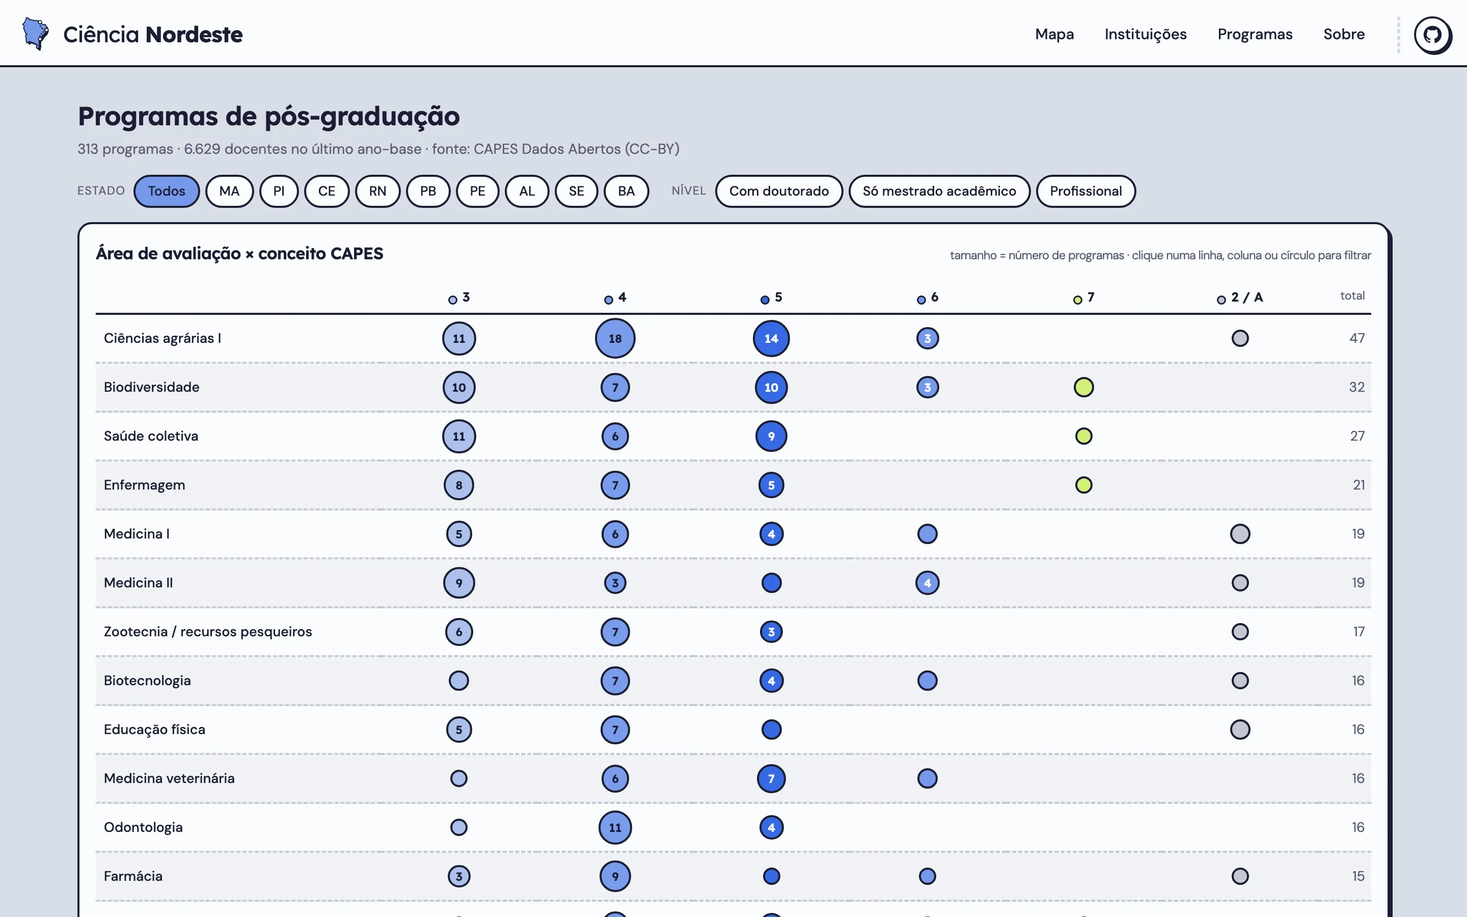
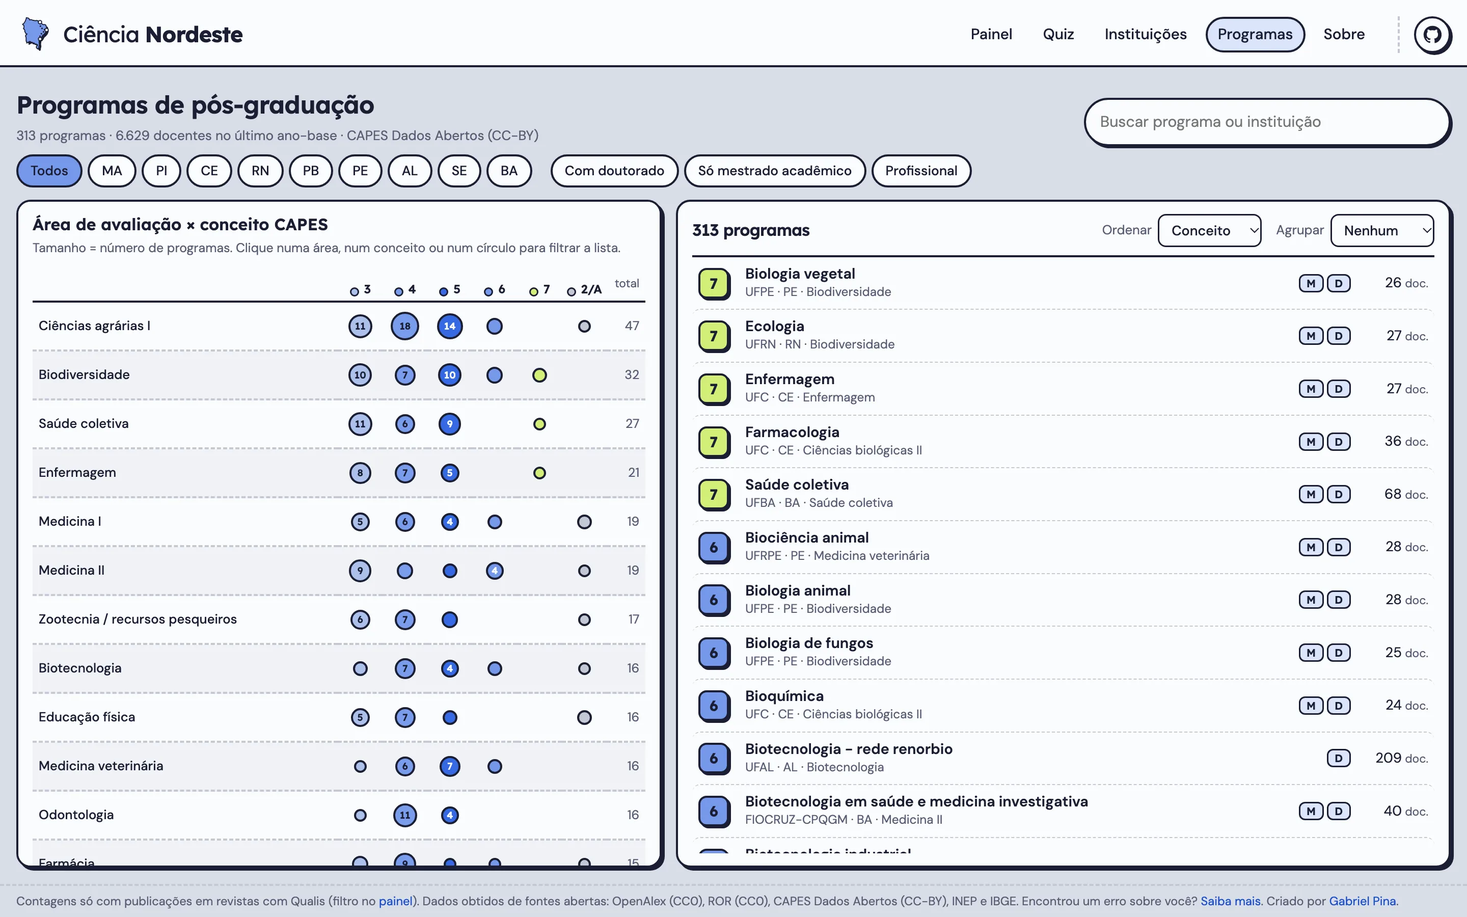
Telas novas no README, peças de divulgação, painel do quiz e plano de otimizações
- README: capturas atualizadas (início, painel, quiz no celular, programas, instituições, programa) e novas (busca por tema, lista de instituições, pesquisador com biografia do ORCID)
- assets/divulgacao: 3 mensagens em 5 formatos (Instagram post e story, TikTok, LinkedIn quadrado e paisagem), com legendas e o gerador
- scripts/quiz_painel.sh: resumo do quiz no terminal, só leitura
- docs/otimizacoes.md: otimizações da busca vetorial, sem e com alteração no banco
- Início: o quiz deixa de dizer "Dez perguntas" (hoje são 13)

diff --git a/assets/divulgacao/gerador.route.tsx b/assets/divulgacao/gerador.route.tsx
@@ -1,0 +1,175 @@
+// Peças de divulgação (docs/divulgacao): o que é o Ciência Nordeste, o quiz e por que fazer, nos formatos das redes.
+// GET /api/divulgacao/o-que-e|quiz|por-que?f=instagram-post|instagram-story|tiktok|linkedin-quadrado|linkedin-paisagem
+// Mesmo estilo dos cartões do quiz ("Registro de campo", D-049/D-050): fundo claro, painéis com borda e sombra dura,
+// títulos em Lexend, selo verde-limão e a chamada em barra escura. Sem ilustração; só o logo e o contorno do Nordeste.
+import { ImageResponse } from "next/og";
+import { q } from "@/lib/db";
+import { ACENTO, FUNDO, LIMA, MUDO, PAINEL, PROPORCAO_MAPA, TINTA, TITULO, carregarFontes, logoForma, logoSvg, miniMapa } from "@/lib/quiz/visual";
+
+export const dynamic = "force-dynamic";
+
+type Formato = { w: number; h: number; k: number; topo: number; base: number; esq: number; dir: number; deitado?: boolean };
+// zonas seguras: story (perfil em cima, resposta embaixo); TikTok (botões à direita, legenda e música embaixo)
+const FORMATOS: Record<string, Formato> = {
+  "instagram-post": { w: 1080, h: 1350, k: 0.84, topo: 72, base: 64, esq: 64, dir: 64 },
+  "instagram-story": { w: 1080, h: 1920, k: 1, topo: 230, base: 210, esq: 80, dir: 80 },
+  tiktok: { w: 1080, h: 1920, k: 0.94, topo: 190, base: 430, esq: 72, dir: 168 },
+  "linkedin-quadrado": { w: 1200, h: 1200, k: 0.84, topo: 72, base: 64, esq: 72, dir: 72 },
+  "linkedin-paisagem": { w: 1200, h: 627, k: 0.64, topo: 44, base: 40, esq: 52, dir: 52, deitado: true },
+};
+const fmt = (n: number) => n.toLocaleString("pt-BR");
+
+export async function GET(req: Request, { params }: { params: { peca: string } }) {
+  const F = FORMATOS[new URL(req.url).searchParams.get("f") ?? ""] ?? FORMATOS["instagram-post"];
+  const peca = params.peca;
+  if (!["o-que-e", "quiz", "por-que"].includes(peca)) return Response.json({ erro: "peça inválida" }, { status: 404 });
+  const z = (n: number) => Math.round(n * F.k);
+  const sombra = (n: number) => `${z(n)}px ${z(n)}px 0 ${TINTA}`;
+  const [r] = await q<{ pesquisadores: string; works: string; instituicoes: string; programas: string; ano_inicio: number; ano_fim: number }>(
+    "SELECT pesquisadores, works, instituicoes, programas, ano_inicio, ano_fim FROM mv_resumo");
+  const fontes = await carregarFontes();
+  const fundo = { "o-que-e": FUNDO.bancada, quiz: FUNDO.computador, "por-que": FUNDO.campo }[peca]!;
+  const acento = { "o-que-e": ACENTO.neutro, quiz: ACENTO.cidade, "por-que": ACENTO.mata }[peca]!;
+
+  const Selo = ({ texto }: { texto: string }) => (
+    <div style={{ display: "flex", alignSelf: "flex-start", fontSize: z(44), fontWeight: 700, fontFamily: TITULO, color: TINTA, background: LIMA,
+      border: `${z(5)}px solid ${TINTA}`, borderRadius: 999, padding: `${z(14)}px ${z(34)}px`, boxShadow: sombra(6), transform: "rotate(-3deg)" }}>{texto}</div>
+  );
+  const Titulo = ({ linhas, tam = 104 }: { linhas: string[]; tam?: number }) => (
+    <div style={{ display: "flex", flexDirection: "column", gap: z(18) }}>
+      <div style={{ display: "flex", flexDirection: "column", fontSize: z(tam), fontWeight: 700, fontFamily: TITULO, lineHeight: 1, letterSpacing: -2 }}>
+        {linhas.map((l) => <span key={l}>{l}</span>)}
+      </div>
+      <div style={{ display: "flex", width: z(300), height: z(18), background: LIMA, border: `${z(4)}px solid ${TINTA}`, borderRadius: 999, boxShadow: sombra(4) }} />
+    </div>
+  );
+  const Texto = ({ children, tam = 38 }: { children: string; tam?: number }) => (
+    <div style={{ display: "flex", fontSize: z(tam), lineHeight: 1.3, color: TINTA }}>{children}</div>
+  );
+  const Painel = ({ children }: { children: React.ReactNode }) => (
+    <div style={{ display: "flex", flexDirection: "column", background: PAINEL, border: `${z(5)}px solid ${TINTA}`, borderRadius: z(28), boxShadow: sombra(12),
+      padding: `${z(10)}px ${z(36)}px` }}>{children}</div>
+  );
+  const Marca = ({ n }: { n: string }) => (
+    <div style={{ display: "flex", alignItems: "center", justifyContent: "center", width: z(62), height: z(62), flexShrink: 0, background: acento,
+      border: `${z(4)}px solid ${TINTA}`, borderRadius: 999, fontSize: z(32), fontWeight: 700, fontFamily: TITULO, color: TINTA }}>{n}</div>
+  );
+  const Itens = ({ itens }: { itens: [string, string][] }) => (
+    <Painel>
+      {itens.map(([forte, resto], i) => (
+        <div key={forte} style={{ display: "flex", alignItems: "center", gap: z(26), padding: `${z(24)}px 0`, borderTop: i ? `${z(4)}px solid ${TINTA}` : "none" }}>
+          <Marca n={String(i + 1)} />
+          <div style={{ display: "flex", flexDirection: "column", gap: z(4), flex: 1 }}>
+            <span style={{ fontSize: z(40), fontWeight: 700, fontFamily: TITULO, lineHeight: 1.12 }}>{forte}</span>
+            <span style={{ fontSize: z(32), color: MUDO, lineHeight: 1.25 }}>{resto}</span>
+          </div>
+        </div>
+      ))}
+    </Painel>
+  );
+  const Chamada = ({ convite, url }: { convite: string; url: string }) => (
+    <div style={{ display: "flex", alignItems: "center", justifyContent: "space-between", background: TINTA, color: PAINEL, borderRadius: z(22),
+      padding: `${z(22)}px ${z(30)}px`, boxShadow: `${z(8)}px ${z(8)}px 0 ${LIMA}` }}>
+      <div style={{ display: "flex", alignItems: "center", gap: z(12) }}>
+        <img src={logoSvg()} width={z(46)} height={z(57)} alt="" />
+        <div style={{ display: "flex", gap: z(8), fontSize: z(32) }}><span>Ciência</span><span style={{ fontWeight: 700, fontFamily: TITULO }}>Nordeste</span></div>
+      </div>
+      <div style={{ display: "flex", flexDirection: "column", alignItems: "flex-end" }}>
+        <span style={{ fontSize: z(28), color: "#c9cde0" }}>{convite}</span>
+        <span style={{ fontSize: z(34), fontWeight: 700, fontFamily: TITULO, color: LIMA }}>{url}</span>
+      </div>
+    </div>
+  );
+  const Figurinha = () => (
+    <img src={logoForma(acento)} width={z(150)} height={Math.round(z(150) * 59 / 47)} alt=""
+      style={{ position: "absolute", top: F.deitado ? z(60) : Math.max(z(40), F.topo - z(190)), right: F.dir + z(4), transform: "rotate(8deg)" }} />
+  );
+
+  // ---- conteúdo de cada peça ----
+  const numeros: [string, string][] = [
+    [fmt(Number(r.pesquisadores)), "pesquisadores"], [fmt(Number(r.works)), `publicações (${r.ano_inicio}–${r.ano_fim})`],
+    [fmt(Number(r.instituicoes)), "instituições"], [fmt(Number(r.programas)), "programas de pós"],
+  ];
+  const Numeros = () => (
+    <Painel>
+      {[numeros.slice(0, 2), numeros.slice(2)].map((par, i) => (
+        <div key={i} style={{ display: "flex", borderTop: i ? `${z(4)}px solid ${TINTA}` : "none" }}>
+          {par.map(([n, rot], j) => (
+            <div key={rot} style={{ display: "flex", flexDirection: "column", flex: 1, padding: `${z(24)}px 0 ${z(24)}px ${j ? z(30) : 0}px`, borderLeft: j ? `${z(4)}px solid ${TINTA}` : "none" }}>
+              <span style={{ fontSize: z(64), fontWeight: 700, fontFamily: TITULO, lineHeight: 1, letterSpacing: -1 }}>{n}</span>
+              <span style={{ fontSize: z(30), color: MUDO, marginTop: z(8) }}>{rot}</span>
+            </div>
+          ))}
+        </div>
+      ))}
+    </Painel>
+  );
+  const mapaW = z(260);
+  const Mapa = () => <img src={miniMapa([]).src} width={mapaW} height={Math.round(mapaW * PROPORCAO_MAPA)} alt="" style={{ flexShrink: 0 }} />;
+
+  const pecas = {
+    "o-que-e": {
+      selo: "Você conhece?",
+      titulo: ["A pesquisa do", "Nordeste num", "só lugar"],
+      texto: "Quem pesquisa o quê, onde e com quem em saúde, ciências biológicas e agrárias. Gratuito, com dados públicos e abertos.",
+      corpo: <Numeros />,
+      chamada: { convite: "explore", url: "ciencianordeste.com.br" },
+      mapa: true,
+    },
+    quiz: {
+      selo: "Que cientista é você?",
+      titulo: ["Descubra o seu", "perfil de", "cientista"],
+      texto: "Para estudantes de graduação, pós-graduandos e docentes. Leva uns 2 minutos.",
+      corpo: <Itens itens={[
+        ["Responda perguntas rápidas", "sobre como e o que você gosta de pesquisar"],
+        ["Ganhe seu título e seu nicho", "em cartões prontos para stories e status"],
+        ["Veja quem pesquisa como você", "pesquisadores, instituições e programas de pós no Nordeste"],
+      ]} />,
+      chamada: { convite: "faça o seu", url: "ciencianordeste.com.br/quiz" },
+      mapa: false,
+    },
+    "por-que": {
+      selo: "Por que fazer o quiz?",
+      titulo: ["Ciência se", "faz em rede"],
+      texto: "O Nordeste tem muita gente pesquisando o mesmo que você. O difícil é se encontrar.",
+      corpo: <Itens itens={[
+        ["Ache orientação perto de você", "quem publica no seu tema, na sua região"],
+        ["Escolha sua pós com dados", "programas e instituições alinhados ao seu interesse"],
+        ["Dê visibilidade à pesquisa daqui", "compartilhe o seu cartão e chame mais gente"],
+      ]} />,
+      chamada: { convite: "faça o seu", url: "ciencianordeste.com.br/quiz" },
+      mapa: true,
+    },
+  }[peca]!;
+
+  const raiz = { display: "flex", width: F.w, height: F.h, position: "relative" as const, overflow: "hidden", background: fundo, fontFamily: "DM Sans", color: TINTA,
+    padding: `${F.topo}px ${F.dir}px ${F.base}px ${F.esq}px` };
+
+  const conteudo = F.deitado ? (
+    // paisagem (link do LinkedIn): título à esquerda, painel à direita, chamada embaixo
+    <div style={{ ...raiz, flexDirection: "column", justifyContent: "space-between" }}>
+      <div style={{ display: "flex", gap: z(56), alignItems: "center", flex: 1 }}>
+        <div style={{ display: "flex", flexDirection: "column", gap: z(30), width: "46%" }}>
+          <Selo texto={pecas.selo} />
+          <Titulo linhas={pecas.titulo} tam={92} />
+        </div>
+        <div style={{ display: "flex", flexDirection: "column", flex: 1 }}>{pecas.corpo}</div>
+      </div>
+      <Chamada {...pecas.chamada} />
+    </div>
+  ) : (
+    <div style={{ ...raiz, flexDirection: "column", justifyContent: "space-between" }}>
+      <Figurinha />
+      <Selo texto={pecas.selo} />
+      <Titulo linhas={pecas.titulo} />
+      {/* o mapa fica ao lado do texto (não do título, que precisa da largura toda) e só nos formatos altos */}
+      <div style={{ display: "flex", alignItems: "center", gap: z(36) }}>
+        <div style={{ display: "flex", flex: 1 }}><Texto tam={F.h / F.w > 1.5 ? 42 : 38}>{pecas.texto}</Texto></div>
+        {pecas.mapa && F.h / F.w > 1.5 && <Mapa />}
+      </div>
+      {pecas.corpo}
+      <Chamada {...pecas.chamada} />
+    </div>
+  );
+  return new ImageResponse(conteudo, { width: F.w, height: F.h, fonts: fontes, headers: { "cache-control": "no-store" } });
+}

diff --git a/apps/web/app/page.tsx b/apps/web/app/page.tsx
@@ -44,7 +44,7 @@ export default async function Inicio({ searchParams }: { searchParams: Record<st
         <a className="caminho caminho-quiz" href="/quiz">
           <span className="caminho-icone" aria-hidden>?</span>
           <b>Descobrir meu perfil de cientista</b>
-          <span>Dez perguntas rápidas: o seu título de cientista e quem no Nordeste pesquisa como você.</span>
+          <span>Perguntas rápidas, uns 2 minutos: o seu título de cientista e quem no Nordeste pesquisa como você.</span>
         </a>
       </nav>
 

diff --git a/docs/otimizacoes.md b/docs/otimizacoes.md
@@ -1,0 +1,77 @@
+# Otimizações da busca vetorial e do servidor
+
+Levantamento de 2026-11-16 (ainda não implementado). Objetivo: gastar menos CPU e memória na VPS na busca por tema
+(`apps/web/lib/vetorial.ts`, `/api/tema`, `/busca`) e no quiz, que usa o mesmo serviço de embedding.
+
+## Onde o processamento vai hoje
+
+Cada busca por tema faz três coisas:
+
+1. **Calcula o vetor da frase** no serviço `embed` (modelo multilingual-e5-base em PyTorch, na CPU). Provavelmente é a parte
+   mais cara: algumas centenas de milissegundos de CPU por consulta.
+2. **Faz duas varreduras no índice HNSW**, uma para publicações em inglês e outra para as demais línguas. O idioma (e o
+   filtro de Qualis) é aplicado *durante* a varredura (`hnsw.iterative_scan`), o que percorre muito mais nós do que o
+   necessário.
+3. **Cria uma tabela temporária** (`_tema`) e roda 4 agregações sobre ela. Criar tabela temporária escreve no catálogo
+   do Postgres a cada busca, o que gera inchaço e trabalho para o autovacuum.
+
+Nada disso é guardado: a mesma busca repetida refaz tudo.
+
+---
+
+## A. Sem alteração no banco de dados
+
+### A1. Só código: `git pull` e `./scripts/publicar.sh`
+
+O `publicar.sh` reconstrói e reinicia só o que mudou (`web` e, se for o caso, `embed`).
+
+| # | Otimização | Onde muda | Ganho esperado | Risco |
+|---|---|---|---|---|
+| 1 | **Cache do vetor da consulta** (LRU em memória, chave = frase normalizada) | `apps/web/lib/vetorial.ts` (`embedVetor`) | Evita rodar o modelo em buscas repetidas e no quiz. É o maior corte de CPU | Baixo |
+| 2 | **Cache do resultado da busca por tema** (LRU por termo + modo + Qualis, validade de algumas horas, como no quiz, D-052) | `apps/web/lib/vetorial.ts` (`buscaPorTema`) | Busca repetida não toca no banco nem no modelo. Os dados só mudam na atualização mensal | Baixo |
+| 3 | **Consulta única com CTE**, sem tabela temporária, devolvendo as 4 listas em JSON | `apps/web/lib/vetorial.ts` | Sem escrita no catálogo a cada busca, menos autovacuum e 5 idas ao banco a menos | Baixo (conferir que o resultado é idêntico) |
+| 4 | **`hnsw.ef_search` de 120 para 64** | `apps/web/lib/vetorial.ts` | Varredura menor no índice | Médio: medir a qualidade (os 10 primeiros resultados em ~50 consultas) |
+| 5 | **Uma inferência por vez no `embed`** (trava em volta do `modelo.encode`) | `servicos/embed/app.py` (rebuild do `embed`, ~5 min) | Buscas simultâneas deixam de disputar a CPU (hoje cada uma abre 2 threads do torch) | Baixo |
+| 6 | **`Disallow: /busca` e `/api/` no robots.txt** | `apps/web` (robots) | Robôs de busca deixam de disparar o modelo ao visitar `/busca?q=…` | Baixo |
+| 7 | **ONNX Runtime com o modelo quantizado em int8** no lugar do PyTorch | `servicos/embed/` (Dockerfile e app.py) | 2–4× mais rápido e cerca de 1/3 da RAM (~1,5 GB → ~400 MB) | Médio: o vetor da consulta muda um pouco; validar a qualidade antes (comparar os 10 primeiros em ~50 consultas) |
+
+Recomendação: implementar 1, 2, 3, 5 e 6 juntos, medir antes e depois, e só então avaliar 4 e 7.
+
+### A2. Configuração do Postgres: `git pull` e reiniciar o banco
+
+São parâmetros no `docker-compose.yml` (por exemplo `command: postgres -c jit=off -c shared_buffers=…`). Não mudam
+tabelas nem dados. Entram com o `git pull`, e o `docker compose up -d db` reinicia o Postgres (o site fica alguns
+segundos fora do ar).
+
+| # | Parâmetro | Valor sugerido | Por quê |
+|---|---|---|---|
+| 8 | `jit` | `off` | Em consultas curtas, o JIT gasta mais CPU compilando do que economiza. Ganho comum e sem risco |
+| 9 | `shared_buffers` | ~25% da RAM da VPS | O índice HNSW precisa estar na memória, senão cada busca lê do disco |
+| 10 | `effective_cache_size` | ~70% da RAM | Ajuda o planejador a preferir os índices |
+| 11 | `max_parallel_workers_per_gather` | 0–1 em VPS de 2 vCPUs | Evita que uma consulta ocupe todos os núcleos |
+| 12 | `work_mem` | 16–32 MB | Agregações e ordenações sem usar o disco |
+
+Os valores exatos dependem da VPS (`free -h` e `nproc`).
+
+### A3. Fora do repositório (configuração do servidor)
+
+| # | Otimização | Observação |
+|---|---|---|
+| 13 | **Limite de requisições por IP** para `/busca` e `/api/tema` | Precisa de um plugin do Caddy (a imagem padrão não tem) e o `Caddyfile` está fora do git (`deploy/`). Alternativa: limitar no próprio app |
+| 14 | **Conferir os logs do Caddy** à procura de robôs abrindo `/busca` | Se houver muito tráfego automático, os itens 6 e 13 resolvem |
+
+---
+
+## B. Com alteração no banco de dados
+
+Exigem migração nova (`ingest/sql/migracoes/0021_…`, com `IF NOT EXISTS`, D-022) e, em alguns casos, reconstruir
+índices. Na VPS: `git pull` e `./scripts/publicar.sh` (aplica a migração), com mais tempo de manutenção.
+
+| # | Otimização | O que muda no banco | Ganho esperado | Custo |
+|---|---|---|---|---|
+| 15 | **Índices HNSW parciais por idioma** | Coluna `ingles boolean` em `work_embeddings` + dois índices: `… WHERE ingles` e `… WHERE NOT ingles` | Cada uma das duas varreduras vira busca direta, sem filtro iterativo | Reconstruir os índices (minutos a dezenas de minutos, com memória extra); atualizar `parte8_embeddings.py` |
+| 16 | **Índice HNSW parcial para "só Qualis"** | Coluna `qualis boolean` em `work_embeddings` (ou tabela separada) + índice parcial | O filtro Qualis, ligado por padrão, deixa de forçar varredura iterativa longa | Mais um índice para manter (espaço em disco e RAM) |
+| 17 | **Tabela de cache de consultas** (frase normalizada → vetor) | Tabela nova, com limpeza periódica | O cache sobrevive a reinícios e é compartilhado | Pequeno. Atenção à privacidade: guardaria o texto das buscas (hoje nada é registrado); preferir o cache em memória (item 1) |
+| 18 | **Visão materializada dos agregados por pesquisador** usados na busca | Nova `mv_…` atualizada na carga mensal | Menos junções por busca | Médio: mais uma visão para atualizar no `atualizar_dados.sh` |
+
+Recomendação: deixar o grupo B para depois de medir o efeito do grupo A. O item 15 é o de maior ganho entre eles.

diff --git a/README.md b/README.md
@@ -19,29 +19,36 @@ Site: **[ciencianordeste.com.br](https://ciencianordeste.com.br)**
 </p>
 
 <p align="center">
-  <img src="assets/telas/painel.webp" alt="Painel: áreas, mapa de publicações por instituição no Nordeste e seletores do mapa" width="900">
-  <br><sub>Painel (<code>/painel</code>): mapa da produção por instituição, áreas, produção por ano e filtros por estado e período.</sub>
+  <img src="assets/telas/painel.webp" alt="Painel: áreas, filtros do mapa e mapa de publicações por instituição no Nordeste" width="900">
+  <br><sub>Painel (<code>/painel</code>): mapa da produção por instituição, áreas, instituições com mais publicações e filtros por estado e período.</sub>
 </p>
 
 <p align="center">
-  <img src="assets/telas/quiz.webp" alt="Quiz Que cientista é você: abertura, resultado com o título e cartão de afinidades com cinco pesquisadores" width="900">
-  <br><sub>Quiz "Que cientista é você?" no celular: abertura, resultado e cartão de afinidades para compartilhar (etapa 13).</sub>
+  <img src="assets/telas/quiz.webp" alt="Quiz Que cientista é você no celular: abertura, resultado e os dois cartões para compartilhar, perfil e afinidades" width="900">
+  <br><sub>Quiz "Que cientista é você?" no celular: abertura, resultado e os dois cartões para stories e status, o perfil e quem pesquisa como você (D-049 a D-056).</sub>
 </p>
 
 <p align="center">
-  <img src="assets/telas/programa-producao.webp" alt="Programa de pós-graduação, aba Produção: publicações por ano e estrato Qualis" width="900">
-  <br><sub>Programa de pós-graduação, aba <b>Produção</b>: publicações por ano e estrato Qualis Periódicos 2021–2024 (D-033).</sub>
+  <img src="assets/telas/busca.webp" alt="Busca por tema: pesquisadores, instituições, publicações e teses sobre arboviroses" width="900">
+  <br><sub>Busca por tema (<code>/busca</code>): busca vetorial multilíngue e por texto, com pesquisadores, instituições, publicações e teses (D-028).</sub>
 </p>
 
 <table>
   <tr>
-    <td width="50%"><img src="assets/telas/programa-rede.webp" alt="Programa de pós-graduação, aba Rede de colaboração"><br><sub>Aba <b>Rede de colaboração</b>: parceiras no Nordeste e coautorias externas.</sub></td>
-    <td width="50%"><img src="assets/telas/instituicao.webp" alt="Página de instituição com rede de colaboração e publicações por área"><br><sub>Instituição: rede de colaboração, números e publicações por área.</sub></td>
+    <td width="50%"><img src="assets/telas/instituicoes.webp" alt="Instituições: treemap por estado e lista ordenável"><br><sub><b>Instituições</b>: visão geral por estado e tipo, ao lado da lista ordenável (D-048).</sub></td>
+    <td width="50%"><img src="assets/telas/programas.webp" alt="Programas de pós-graduação: matriz área de avaliação por conceito CAPES e lista"><br><sub><b>Programas de pós</b>: área de avaliação × conceito CAPES, ao lado da lista (D-048).</sub></td>
   </tr>
   <tr>
-    <td colspan="2"><img src="assets/telas/programas.webp" alt="Programas de pós-graduação: matriz área de avaliação por conceito CAPES"><br><sub>Programas de pós-graduação: área de avaliação × conceito CAPES, com filtros por estado e nível.</sub></td>
+    <td width="50%"><img src="assets/telas/programa-producao.webp" alt="Programa de pós-graduação, aba Produção: publicações por ano e estrato Qualis"><br><sub>Programa, aba <b>Produção</b>: publicações por ano e estrato Qualis 2021–2024 (D-033).</sub></td>
+    <td width="50%"><img src="assets/telas/programa-rede.webp" alt="Programa de pós-graduação, aba Docentes: rede de coautoria entre os docentes"><br><sub>Programa, aba <b>Docentes</b>: rede de coautoria e lista dos docentes.</sub></td>
+  </tr>
+  <tr>
+    <td width="50%"><img src="assets/telas/instituicao.webp" alt="Página de instituição com mapa da colaboração e publicações por área"><br><sub><b>Instituição</b>: mapa da colaboração, números e publicações por área.</sub></td>
+    <td width="50%"><img src="assets/telas/pesquisador.webp" alt="Página de pesquisador com mapa da colaboração, tópicos e biografia do ORCID"><br><sub><b>Pesquisador</b>: colaboração, tópicos e a biografia pública do ORCID (D-055).</sub></td>
   </tr>
 </table>
+
+Peças de divulgação para redes sociais (Instagram, TikTok, LinkedIn): [assets/divulgacao](assets/divulgacao/README.md).
 
 ## Números atuais
 

diff --git a/assets/divulgacao/README.md b/assets/divulgacao/README.md
@@ -1,0 +1,32 @@
+# Peças de divulgação
+
+Imagens para redes sociais no estilo dos cartões do quiz ("Registro de campo", D-049/D-050; `docs/arte-banners.md`).
+Três mensagens, cinco formatos cada. Os números vêm do banco (`mv_resumo`) no dia da geração (2026-11-16).
+
+| peça | mensagem | legenda sugerida |
+|---|---|---|
+| `o-que-e-*` | O que é o Ciência Nordeste: os números da base | Quem pesquisa o quê no Nordeste? Pesquisadores, publicações, instituições e programas de pós em saúde, ciências biológicas e agrárias, num só lugar e com dados abertos. ciencianordeste.com.br |
+| `quiz-*` | Que cientista é você? Como funciona o quiz | Descubra o seu perfil de cientista em uns 2 minutos e veja quem no Nordeste pesquisa como você. ciencianordeste.com.br/quiz |
+| `por-que-*` | Por que fazer o quiz: ciência se faz em rede | Orientação, pós-graduação e colaboração começam por saber quem pesquisa o mesmo que você. Faça o quiz e compartilhe o seu cartão. ciencianordeste.com.br/quiz |
+
+| formato | tamanho | uso | zona segura respeitada |
+|---|---|---|---|
+| `instagram-post` | 1080 × 1350 (4:5) | feed do Instagram e do Facebook | margens de 64–72 px |
+| `instagram-story` | 1080 × 1920 (9:16) | stories e status do WhatsApp | 230 px no topo e 210 px embaixo livres de texto |
+| `tiktok` | 1080 × 1920 (9:16) | TikTok, Reels e Shorts | 190 px no topo, 430 px embaixo e 168 px à direita (botões) |
+| `linkedin-quadrado` | 1200 × 1200 (1:1) | post com imagem no LinkedIn | margens de 72 px |
+| `linkedin-paisagem` | 1200 × 627 (1,91:1) | imagem de link ou post horizontal no LinkedIn | margens de 44–52 px |
+
+## Como gerar de novo
+
+O gerador (`gerador.route.tsx`) usa as mesmas fontes, cores e o mesmo motor (next/og) dos cartões do quiz. Ele não fica
+no site: para regenerar (por exemplo, com números novos), copie-o para `apps/web/app/api/divulgacao/[peca]/route.tsx`,
+reconstrua o `web` localmente e baixe as imagens:
+
+```bash
+mkdir -p "apps/web/app/api/divulgacao/[peca]" && cp assets/divulgacao/gerador.route.tsx "apps/web/app/api/divulgacao/[peca]/route.tsx"
+docker compose build web && docker compose up -d web
+for p in o-que-e quiz por-que; do for f in instagram-post instagram-story tiktok linkedin-quadrado linkedin-paisagem; do
+  curl -s -o assets/divulgacao/$p-$f.png "http://localhost:3000/api/divulgacao/$p?f=$f"; done; done
+rm -r apps/web/app/api/divulgacao && docker compose build web && docker compose up -d web
+```
